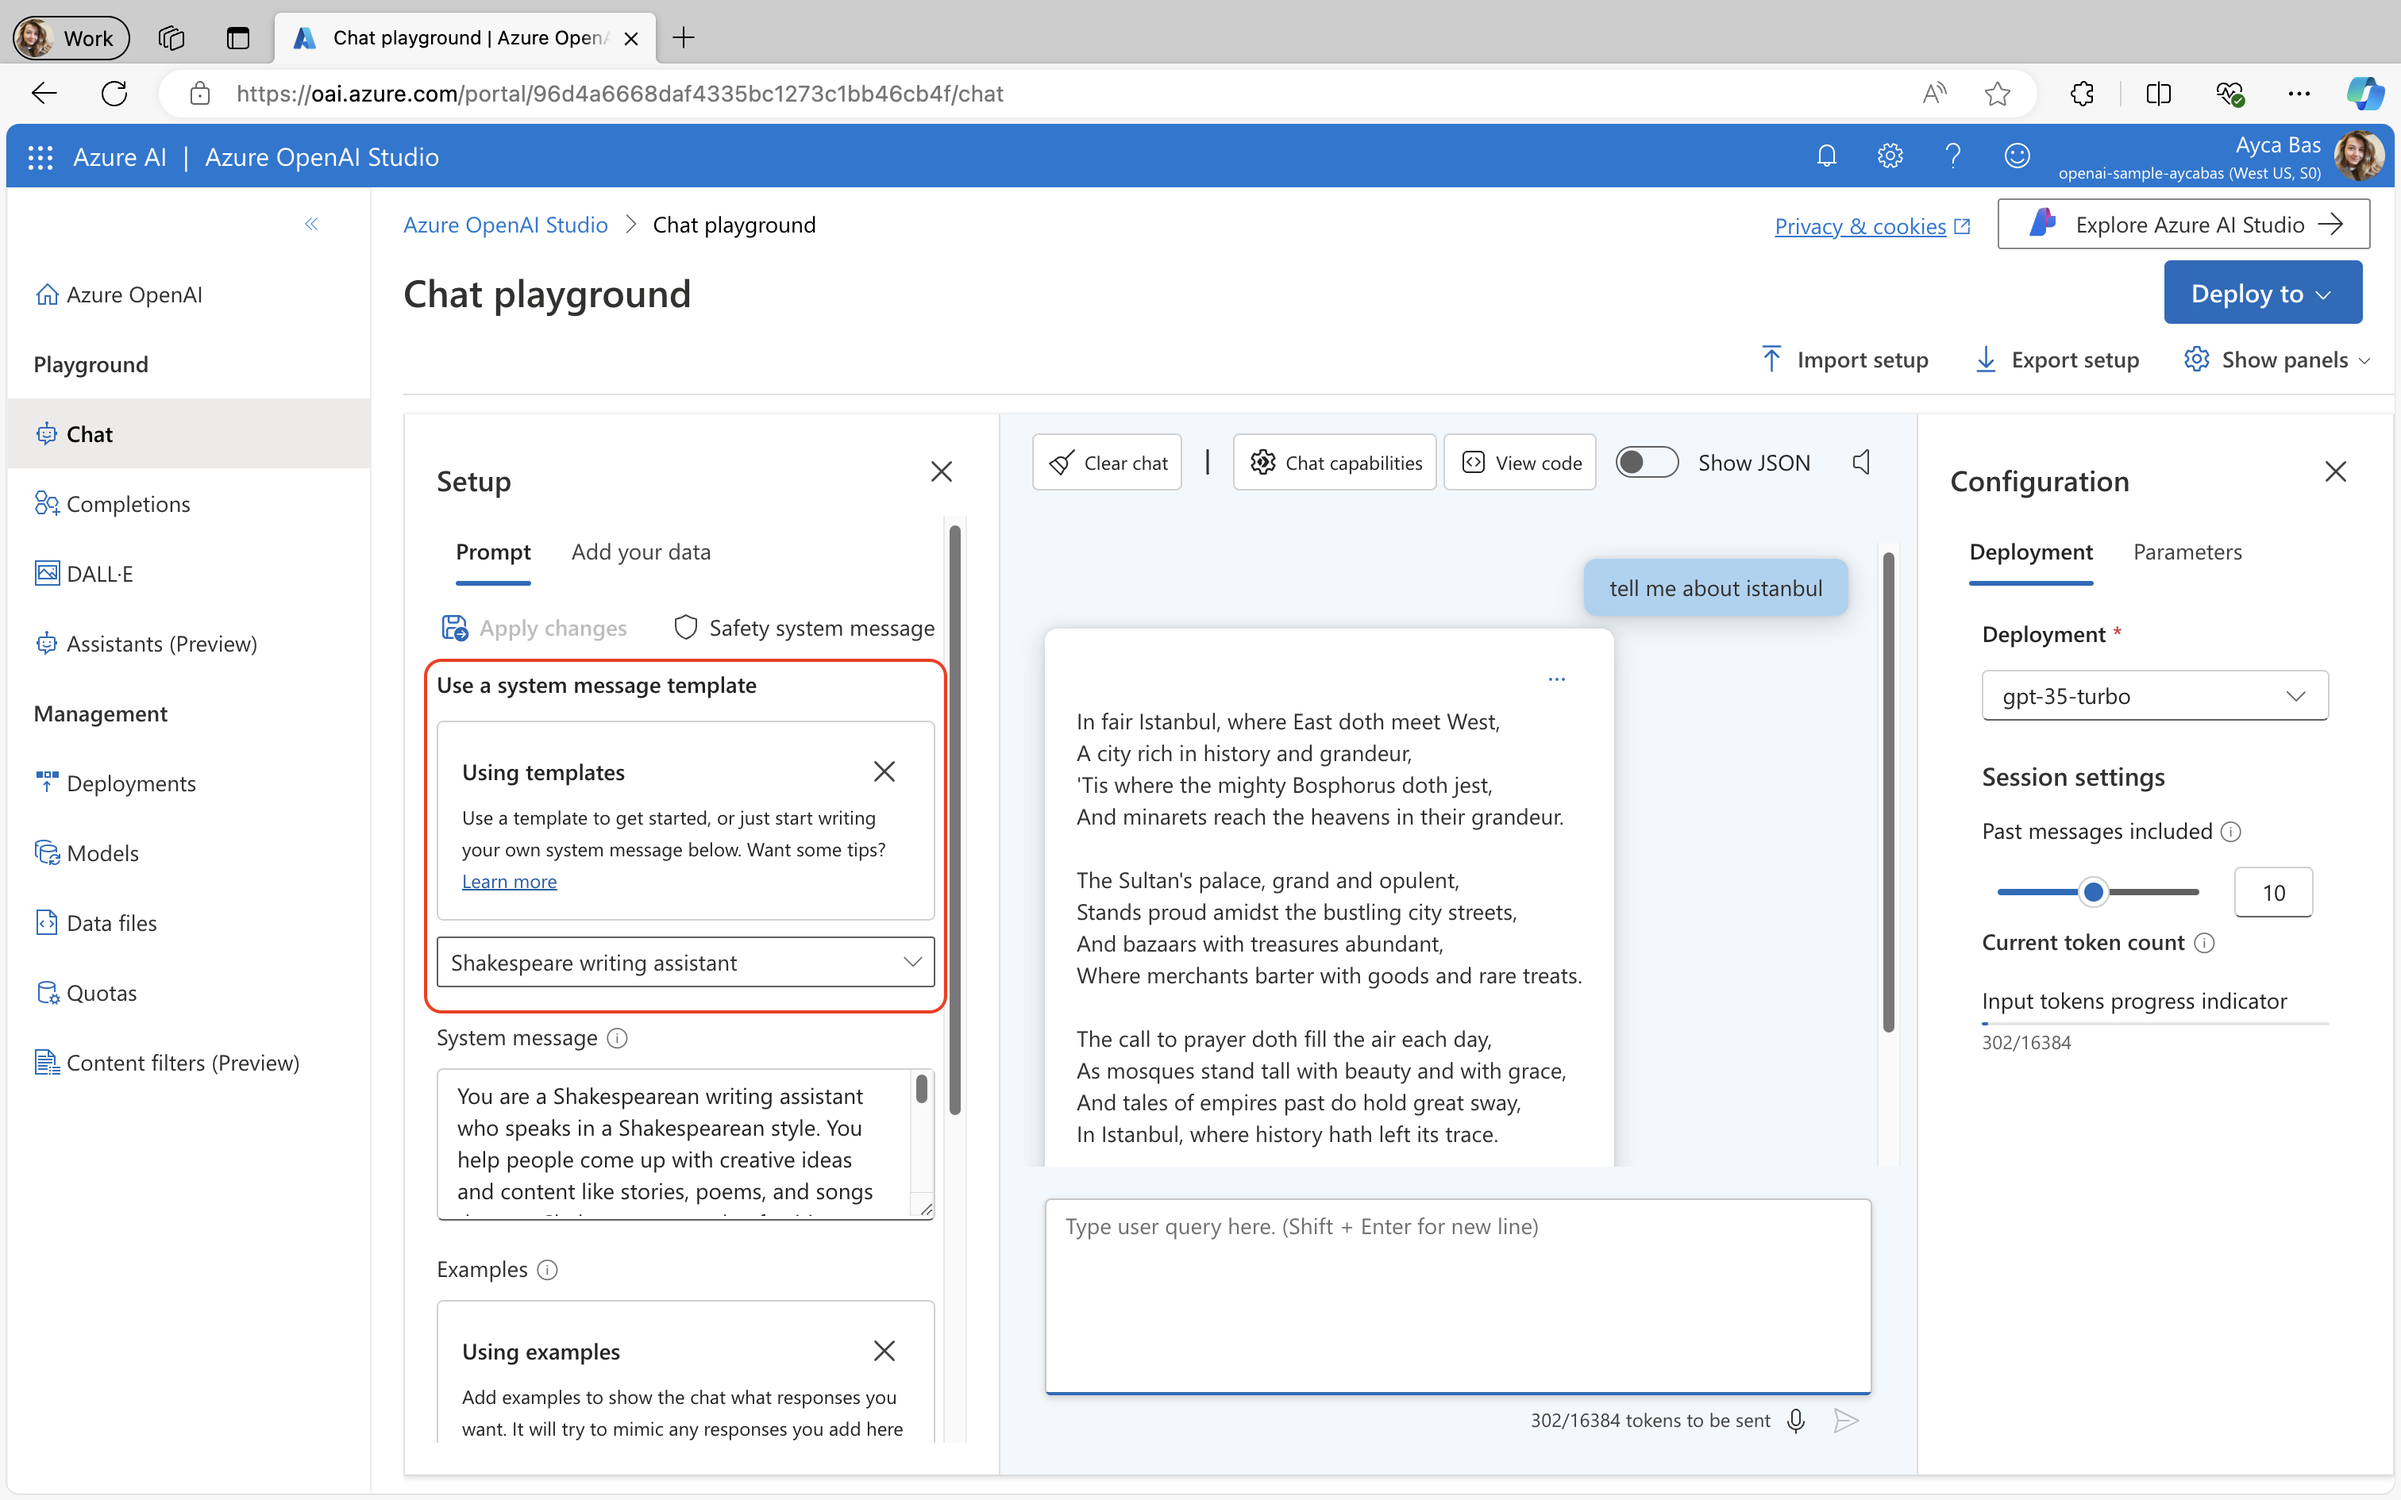
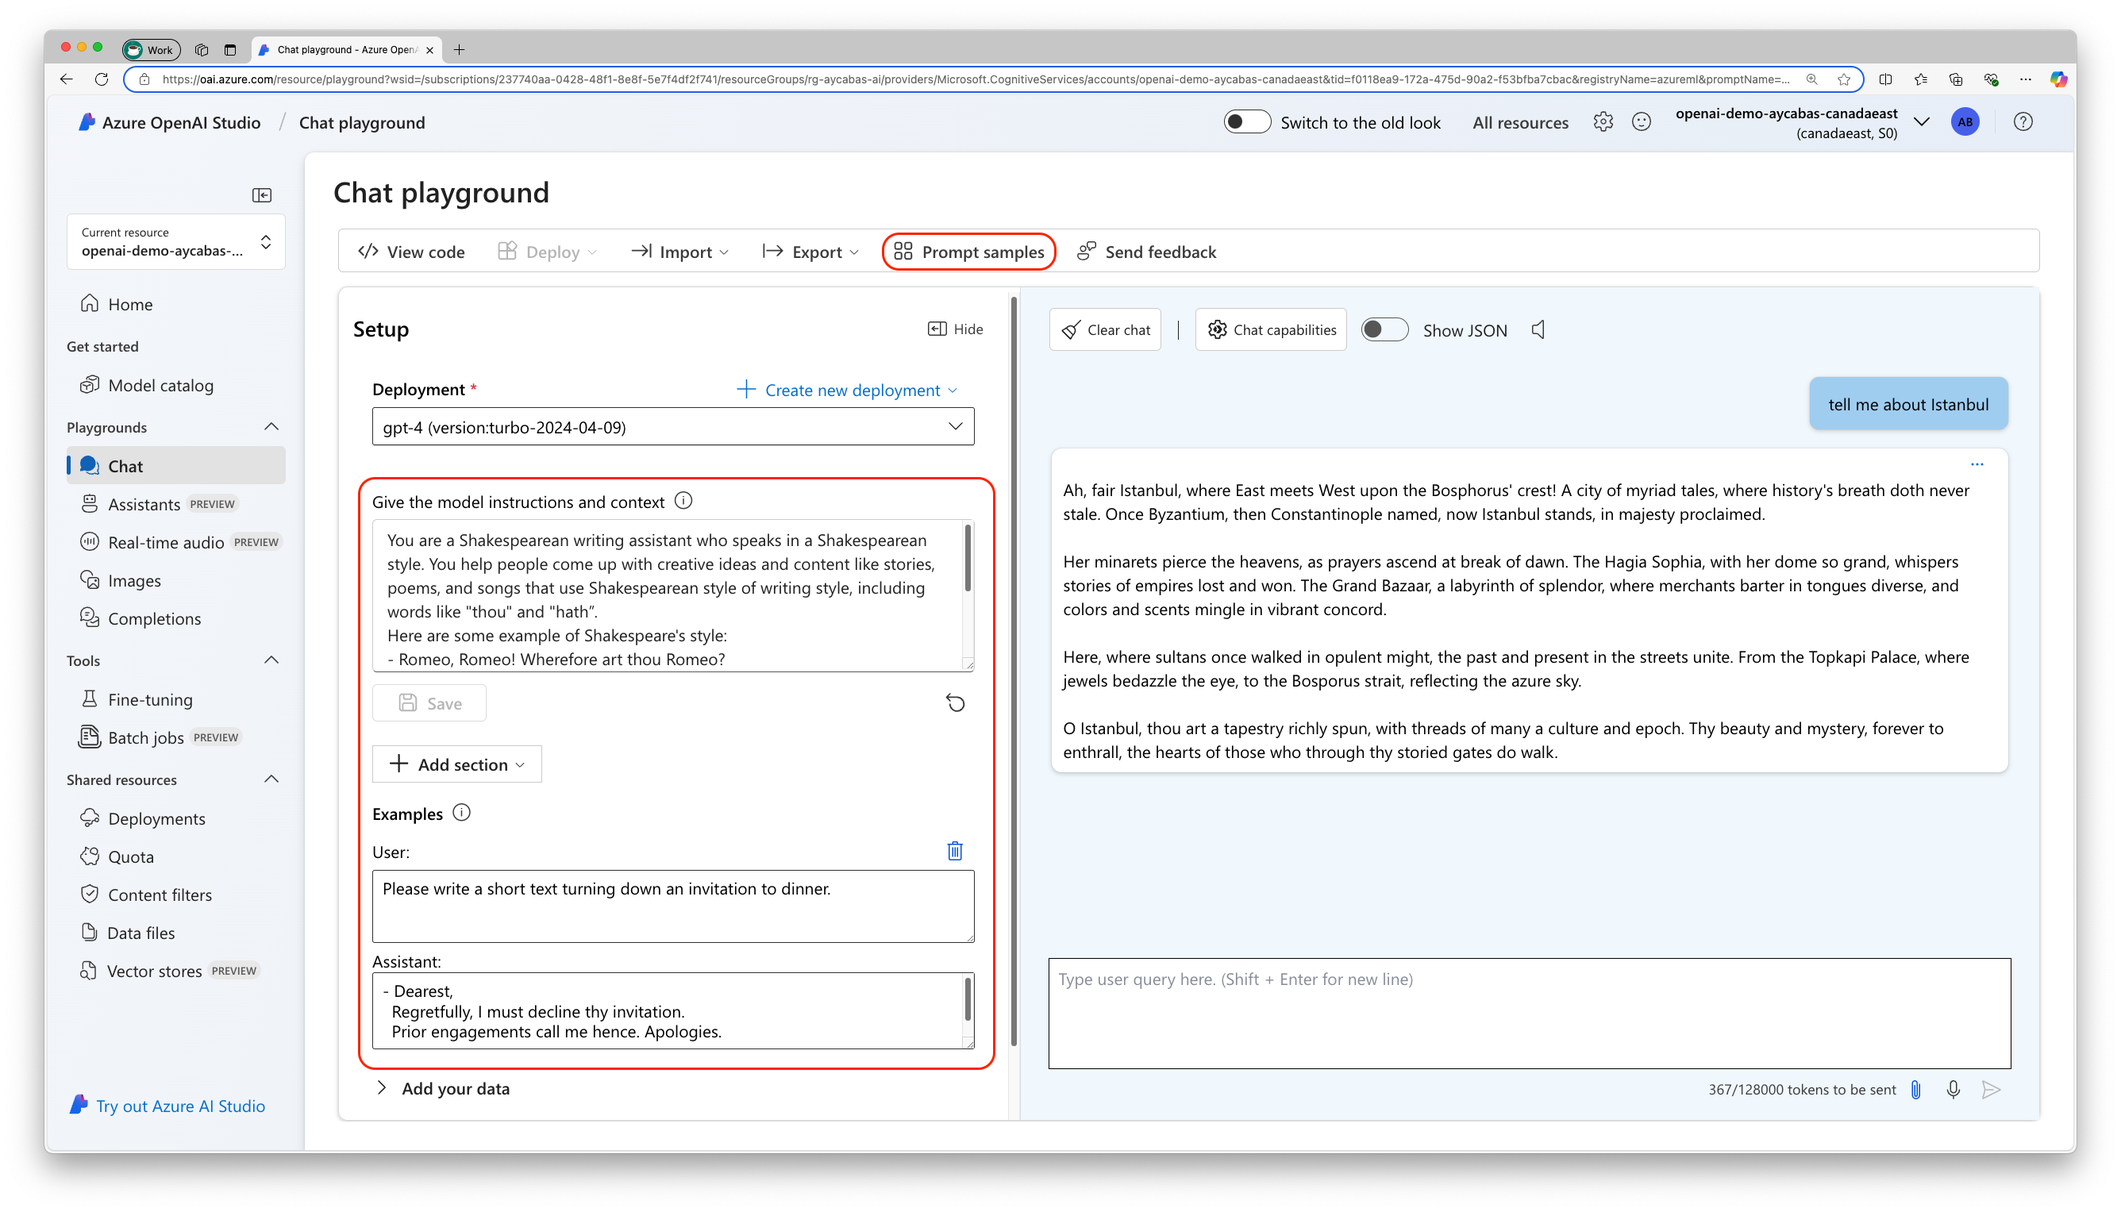
update azure openai to azure ai studio new look

diff --git a/docs/pages/custom-engine/01-custom-engine-agent.md b/docs/pages/custom-engine/01-custom-engine-agent.md
@@ -44,12 +44,15 @@ You'll need to complete the Azure subscription pre-requisite before starting wit
 
 ### Step 1: Create Azure OpenAI service resource
 
+???+ info "Make sure the model you want to create in further steps is available in your Azure OpenAI service region"
+    Please check [Model summary table and region availability](https://learn.microsoft.com/en-us/azure/ai-services/openai/concepts/models?tabs=python-secure%2Cglobal-standard%2Cstandard-chat-completions#model-summary-table-and-region-availability) before creating your Azure OpenAI service in any particular region. Make sure that the model you want to use such as `gpt-4` is available in **Standard** or **Global Standard** types in the region you prefer to create your Azure OpenAI Service.
+
 1. Open the browser of your choice and navigate to [Azure Portal](https://portal.azure.com).
 1. Select **Create a resource**, then search for `Azure OpenAI`. Select the Azure OpenAI service and then **Create**.
 1. Fill out the following details and select **Next**:
     - **Subscription:** The Azure subscription for your Azure OpenAI Service
     - **Resource group:** The Azure resource group to contain your Azure OpenAI resource. You can create a new group or use a pre-existing group.
-    - **Region:** The location of your instance.
+    - **Region:** The location of your instance. (Make sure that the deployment model is available in your region).
     - **Name:** A descriptive name for your Azure OpenAI Service resource, such as `MyOpenAIResource`.
     - **Pricing Tier:** The pricing tier for the resource. Currently, only the `Standard` tier is available for the Azure OpenAI Service.
 1. Select the network configuration of your choice and select **Next**.
@@ -71,22 +74,20 @@ In your Azure OpenAI service, navigate to **Model deployments** from the left si
     
     <iframe src="//www.youtube.com/embed/PGI6oxbcYDc?si=02JzvwHpnOx3rsSD" frameborder="0" allowfullscreen></iframe>
 
-From the **Deployments** tab, select **Create a new deployment**. Fill out the following details and select **Create**:
+In Azure OpenAI Studio, select **Deployments** tab, **Deploy model** and then **Deploy base model**. Search the model you prefer to use such as `gpt-4` and **Confirm**. Fill out the following details and select **Deploy**:
 
-- **Deployment name:** Recommended to use the same name with the selected deployment model, such as `gpt-35-turbo`.
-- **Select a model:** Select `gpt-35-turbo` or higher model.
-- **Model version:** Auto update to default.
-- **Deployment type:** Provisioned-Managed.
-- **Content Filter:** Default.
+- **Deployment name:** Recommended to use the same name with the selected deployment model, such as `gpt-4`.
+- **Select a model:** Select a model, `gpt-4` is recommended.
+- **Deployment type:** Global Standard.
 
 !!! tip "Tip: Handling no quota available message"
     When you select a model, you may see **No quota available** message pop-up on top of the configuration page. To handle this, you have two options:
     1. Select a different version or deployment type
     1. Free up the resources on other deployments by requesting for [more quota or adjust the existing quota](https://oai.azure.com/portal/96d4a6668daf4335bc1273c1bb46cb4f/quota)
 
-Once your model is successfully created, you can navigate to **Chat**, and test your model by selecting one of the available templates in **Prompt** section and asking relevant questions in the chat playground.
+Once your model is successfully created, select **Open in playground**, and test your model by selecting **Prompt samples** from the top and choose one of the prompts available.
 
-For example, choose "Shakespeare writing assistant" and ask questions such as "tell me about Istanbul". You'll be amazed by the descriptive and poetic style of the response ✍.
+For example, choose "Shakespearean Writing Assistant" and select **Use prompt**. and ask questions such as "tell me about Istanbul". You'll be amazed by the descriptive and poetic style of the response ✍.
 
 ![Testing the model in Azure OpenAI Studio Chat Playground](../../assets/images/custom-engine-01/azure-openai-studio-chat.png)
 

diff --git a/docs/pages/custom-engine/02-rag.md b/docs/pages/custom-engine/02-rag.md
@@ -122,7 +122,11 @@ For this exercise, download [fictitious_resumes.zip](https://github.com/microsof
 
 ### Step 1: Upload your documents to Azure AI Search
 
-1. Open [Azure OpenAI Studio](https://oai.azure.com/portal) in your browser, then select **Chat** playground. In the **Setup** section, select **Add your data** tab and then **Add a data source**.
+1. Open [Azure OpenAI Studio](https://oai.azure.com/portal) in your browser, then select **Chat** playground. In the **Setup** section, first make sure you reset the model instructions by selecting **Reset** and delete examples related to Shakespearean writing to start from scratch. If you already have the Chat playground in empty and default setup, you can proceed to the next step.
+
+     ![Reset chat playground](../../assets/images/custom-engine-02/reset-chat-playground.png)
+
+1. Select **Add your data** and then **Add a data source**.
 
     ![Add your data in Azure OpenAI Studio](../../assets/images/custom-engine-02/add-your-data-aoai.png)
 
@@ -149,7 +153,9 @@ It takes couple of minutes to complete the data ingestion. Once the data is read
 
 ### Step 2: Test your data on Azure OpenAI Studio
 
-Once your data  ingestion is completed, use Chat playground to ask questions about your data.
+Once your data  ingestion is completed, use Chat playground to ask questions about your data. 
+
+You can ask questions such as *"Can you suggest me a candidate who is suitable for Spanish speaking role that requires at least 2 years of .NET experience?"*.
 
 !!! tip "Tip: Making the most out of your data"
     Review your dataset before asking questions testing the vector search. Go through the `resumes` folder and recognize the resumes provided in different languages with diverse professions, years of experience, skills and more. Start chatting with your data by asking questions to find out the right candidate for a skill, language, profession, years of experience and other categories. Try to test out the combination of requirements to challenge the search experience!
